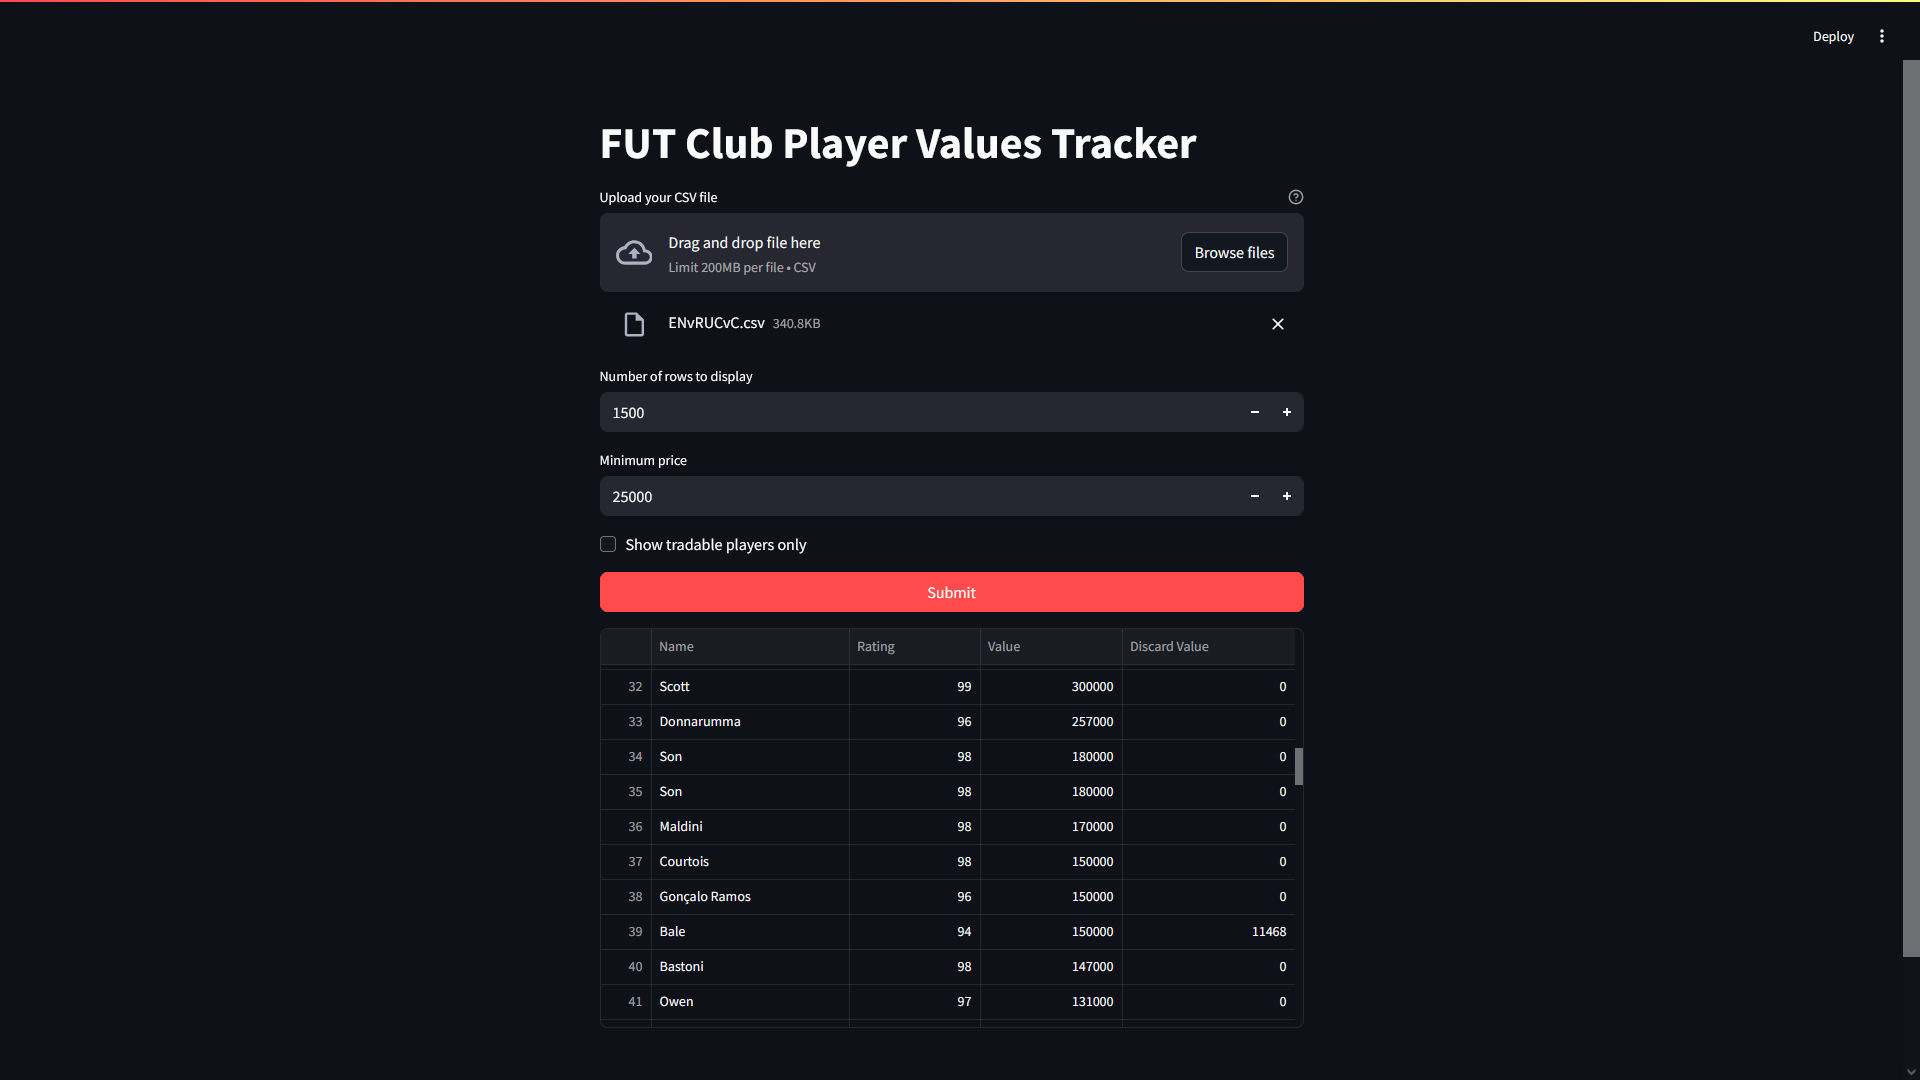
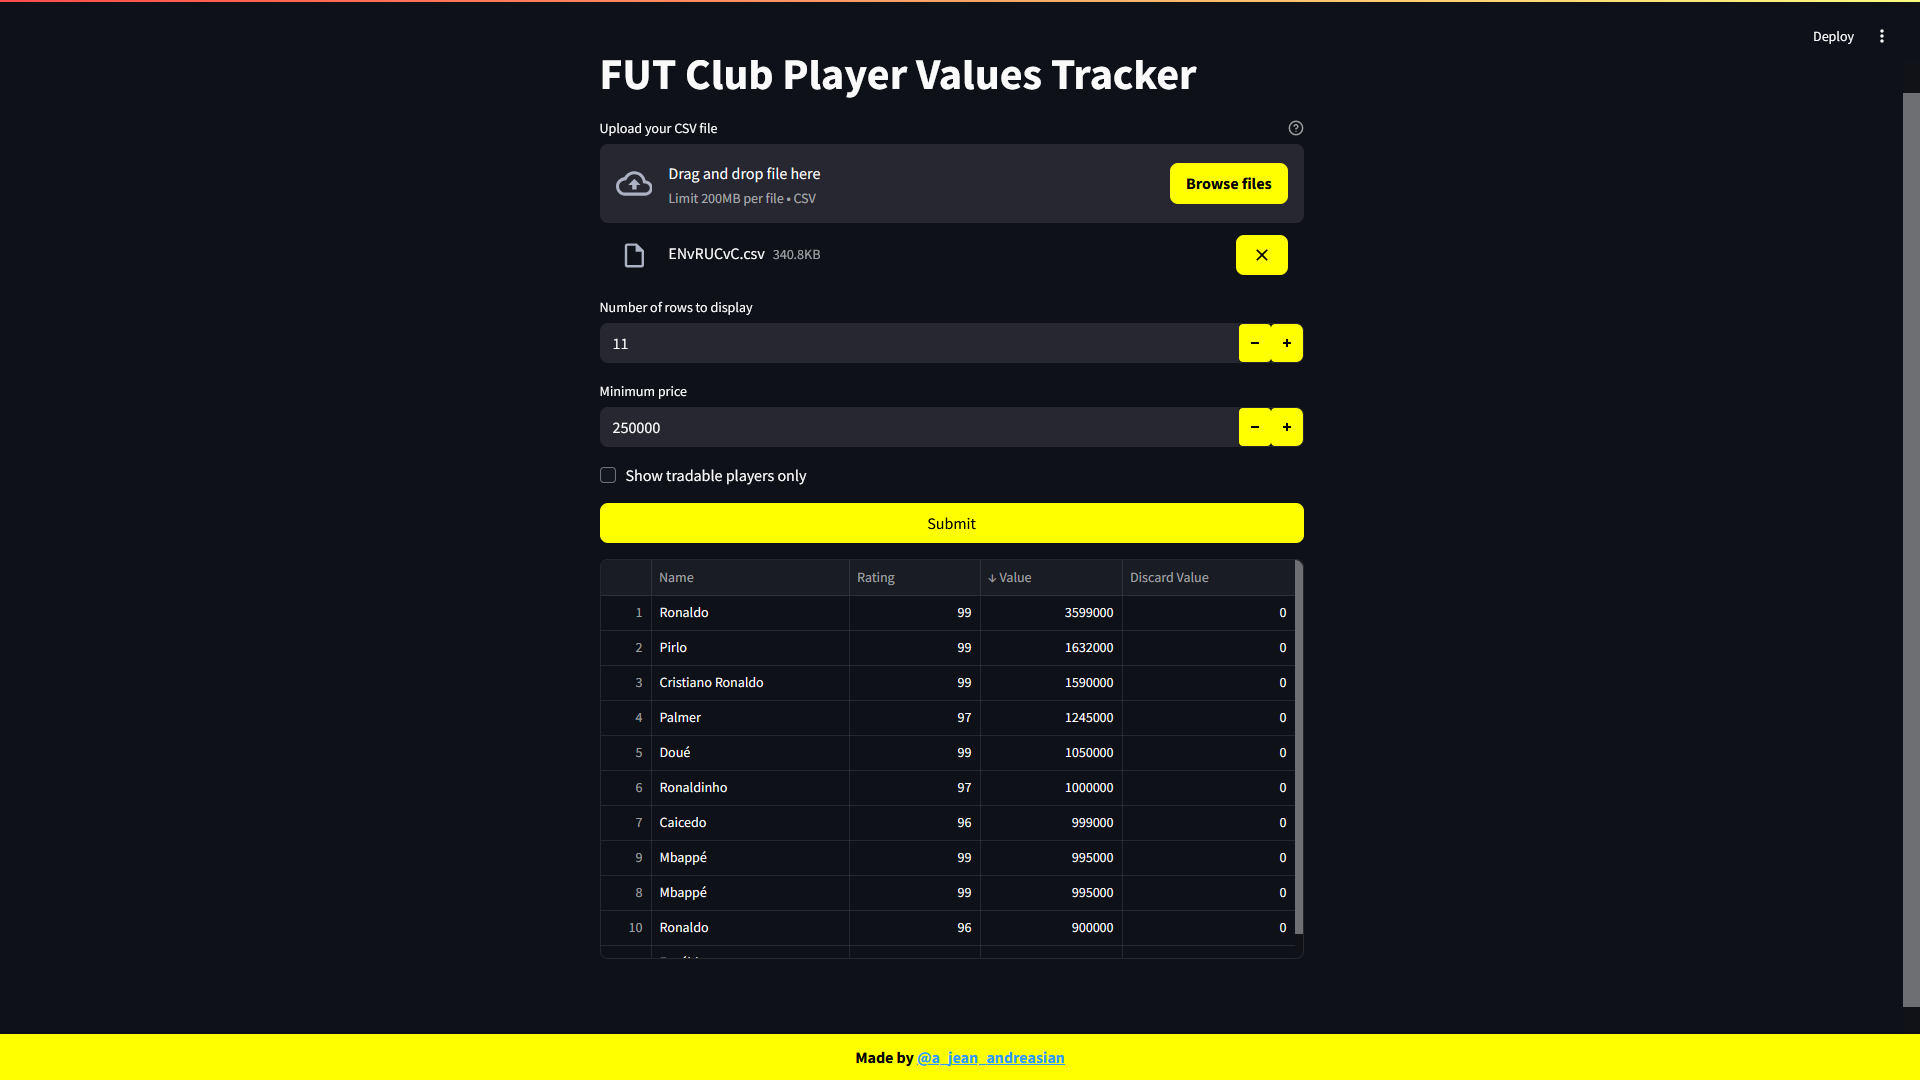
Added styling

diff --git a/app.py b/app.py
@@ -2,6 +2,59 @@ import streamlit as st
 import pandas as pd
 from helpers import modify
 
+
+st.set_page_config(page_title="FUT Tracker", page_icon="⚽")
+
+st.markdown(
+    """
+    <style>
+    /* Submit button */
+    div.stButton > button:first-child {
+        background-color: yellow;
+        color: black;
+        font-weight: bold;
+        border: none;
+        border-radius: 8px;
+    }
+    div.stButton > button:first-child:hover {
+        background-color: #FFD700; /* darker yellow */
+        color: black;
+    }
+
+    /* File uploader "Browse files" button */
+    .stFileUploader button {
+        background-color: yellow !important;
+        color: black !important;
+        font-weight: bold !important;
+        border: none !important;
+        border-radius: 8px !important;
+        padding: 0.5em 1em !important;
+    }
+    .stFileUploader button:hover {
+        background-color: #FFD700 !important; /* darker yellow */
+        color: black !important;
+    }
+    
+    /* Number input increment/decrement buttons */
+    .stNumberInput button {
+        background-color: yellow !important;
+        color: black !important;
+        border: none !important;
+        border-radius: 4px !important;
+        font-weight: bold !important;
+    }
+    .stNumberInput button:hover {
+        background-color: #FFD700 !important; /* darker yellow */
+        color: black !important;
+    }
+    
+    
+    </style>
+    """,
+    unsafe_allow_html=True
+)
+
+
 st.title("FUT Club Player Values Tracker")
 
 file = st.file_uploader(
@@ -35,3 +88,28 @@ if st.button("Submit", type="primary", use_container_width=True):
                 st.error(f"Error processing the data: {e}")
             else:
                 st.dataframe(result, use_container_width=True)
+
+
+
+st.markdown(
+    """
+    <style>
+    .footer {
+        position: fixed;
+        left: 0;
+        bottom: 0;
+        width: 100%;
+        background-color: yellow;
+        color: black;
+        text-align: center;
+        padding: 10px;
+        font-weight: bold;
+        box-shadow: 0 -2px 5px rgba(0,0,0,0.1);
+    }
+    </style>
+    <div class="footer">
+        Made by <a href="https://github.com/a-jean-andreasian" target="_blank">@a_jean_andreasian</a>
+    </div>
+    """,
+    unsafe_allow_html=True
+)
